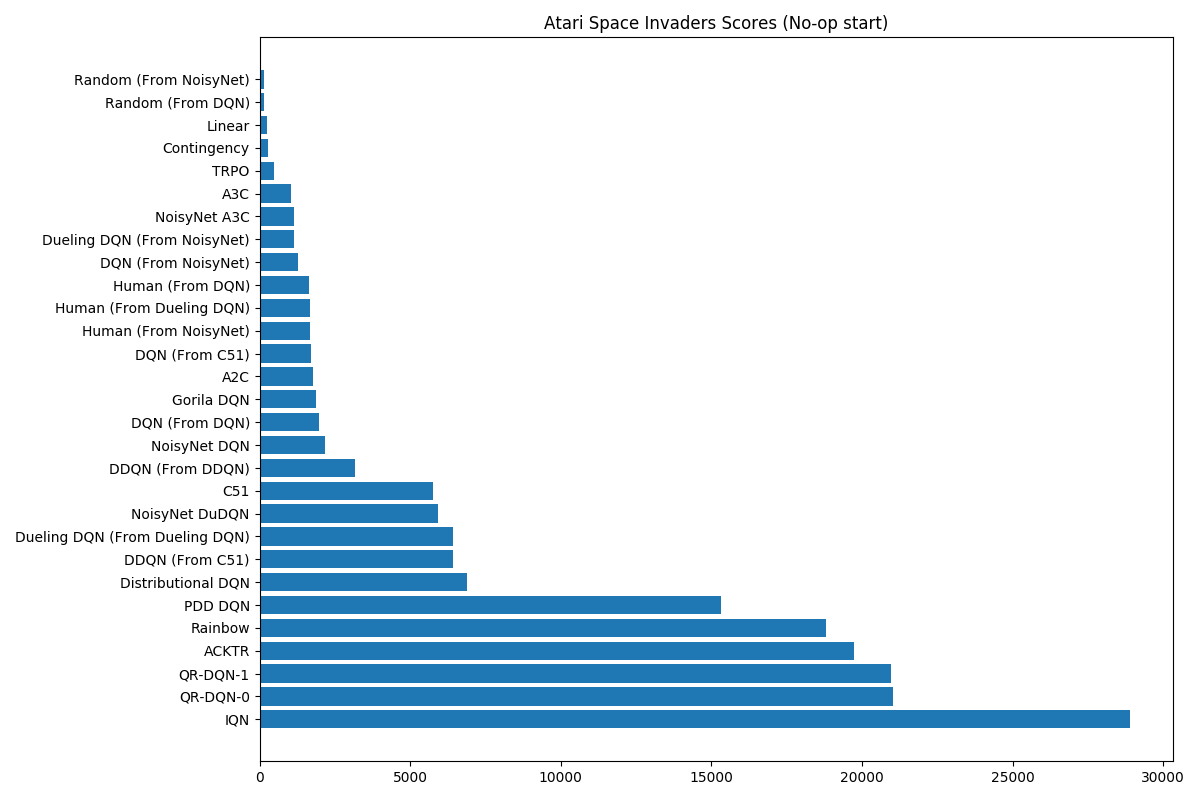
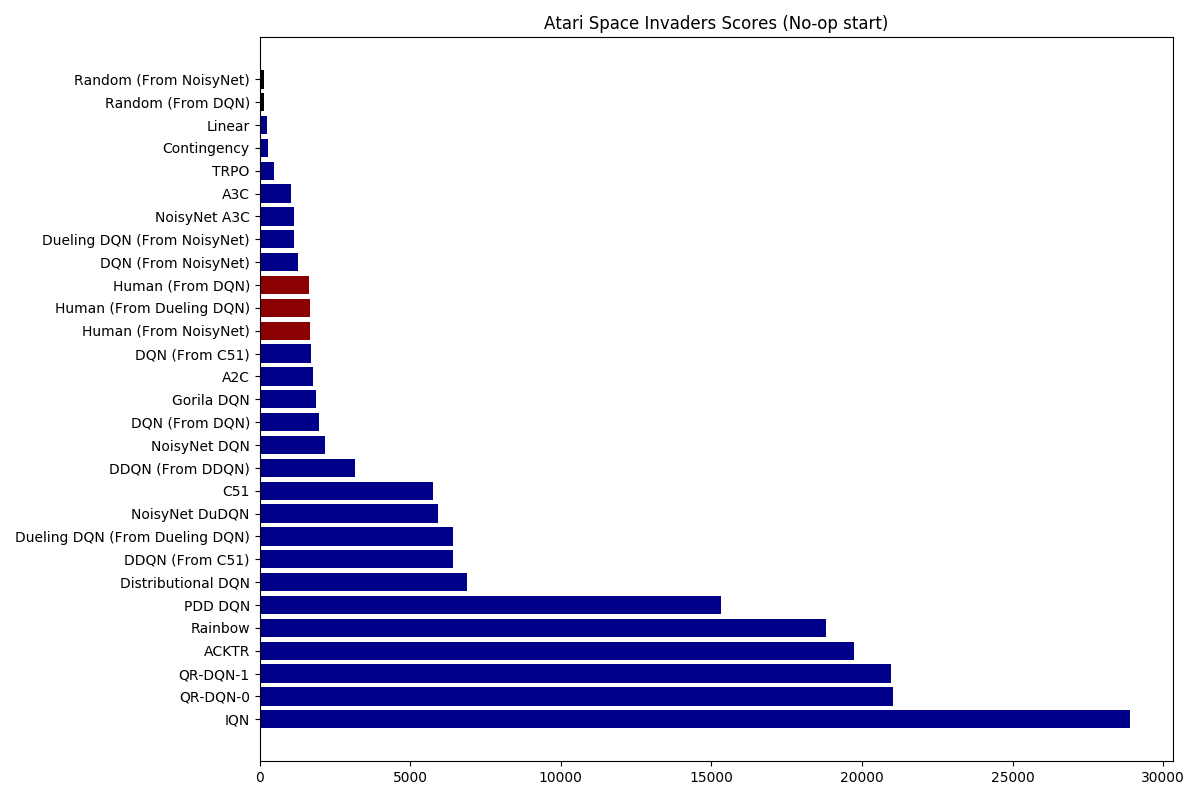
Use different colors in bar plot for human and random scores (#48)
* Custom color for Human and Random

* Update README plots

Changed region(s): [[0.2158, 0.1562, 0.9558, 0.9375]]

diff --git a/example_plot.py b/example_plot.py
@@ -12,11 +12,14 @@ def env_barplot(filter, plot_title, plot_name):
         key=lambda entry: entry['score'],
         reverse=True,
     )
-    labels, scores = entries_to_labels_scores(sorted_entries)
+    labels, scores, colors = entries_to_labels_scores(sorted_entries)
 
     # Draw bar plot
     plt.figure(figsize=(12, 8))
-    plt.barh(labels, scores)
+    bars = plt.barh(labels, scores, color=colors)
+    # Color 'Human' and 'Random' entries
+
+    # Add text
     plt.title(plot_title)
     plt.tight_layout()
     plt.savefig('docs/{}.png'.format(plot_name))
@@ -31,7 +34,8 @@ def entries_to_labels_scores(entries):
     nicknames = [entry['algo-nickname'] for entry in entries]
 
     labels = []
-    scores = []    
+    scores = []
+    colors = []
     for entry in entries:
         label = entry['algo-nickname']
 
@@ -39,10 +43,21 @@ def entries_to_labels_scores(entries):
         if nicknames.count(entry['algo-nickname']) > 1:
             label += ' (From {})'.format(entry['source-nickname'])
 
+        # Special color for 'Human' and 'Random'
+        
+        if entry['algo-title'] == 'Human':
+            color = 'red'
+        elif entry['algo-title'] == 'Random':
+            color = 'black'
+        else:
+            color = 'darkblue'
+
         labels.append(label)
         scores.append(entry['score'])
 
-    return labels, scores
+        colors.append(color)
+
+    return labels, scores, colors
 
 
 def main():
